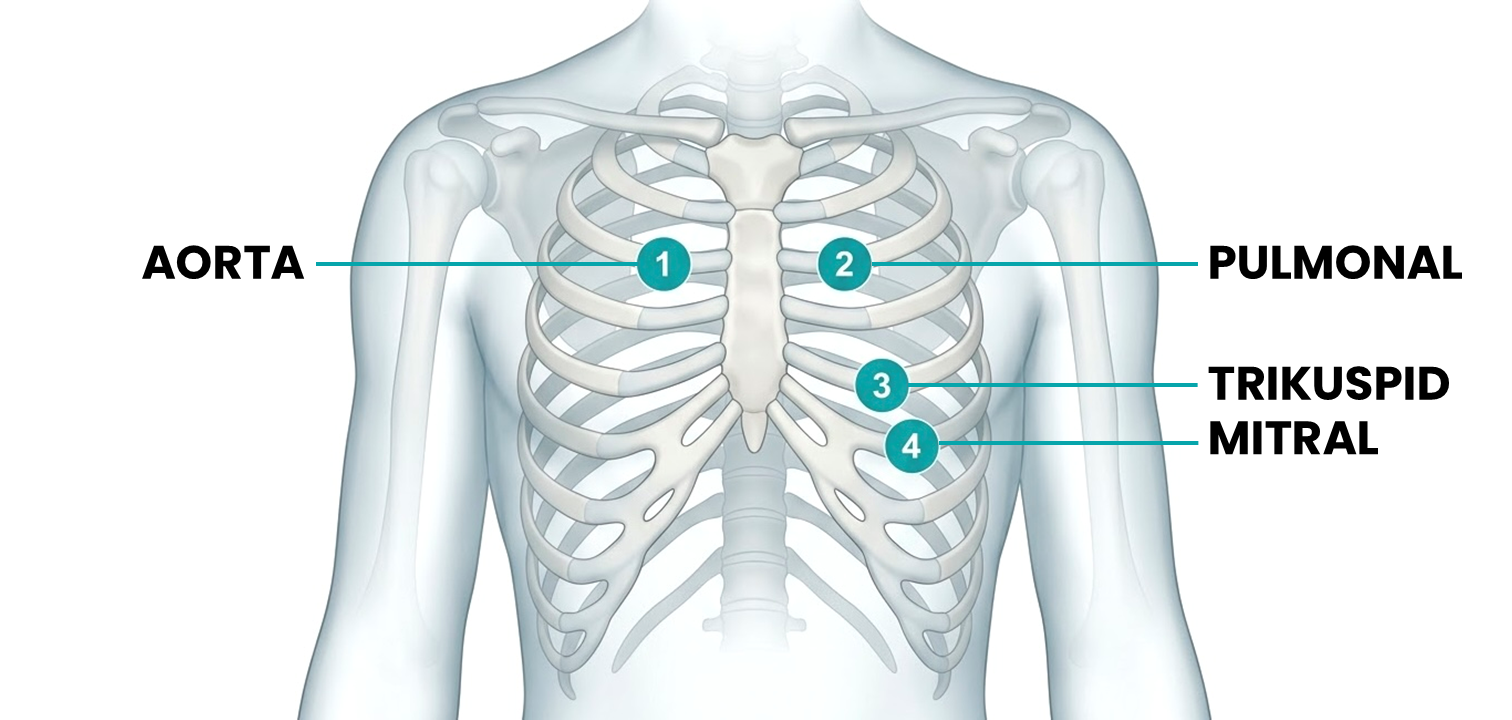
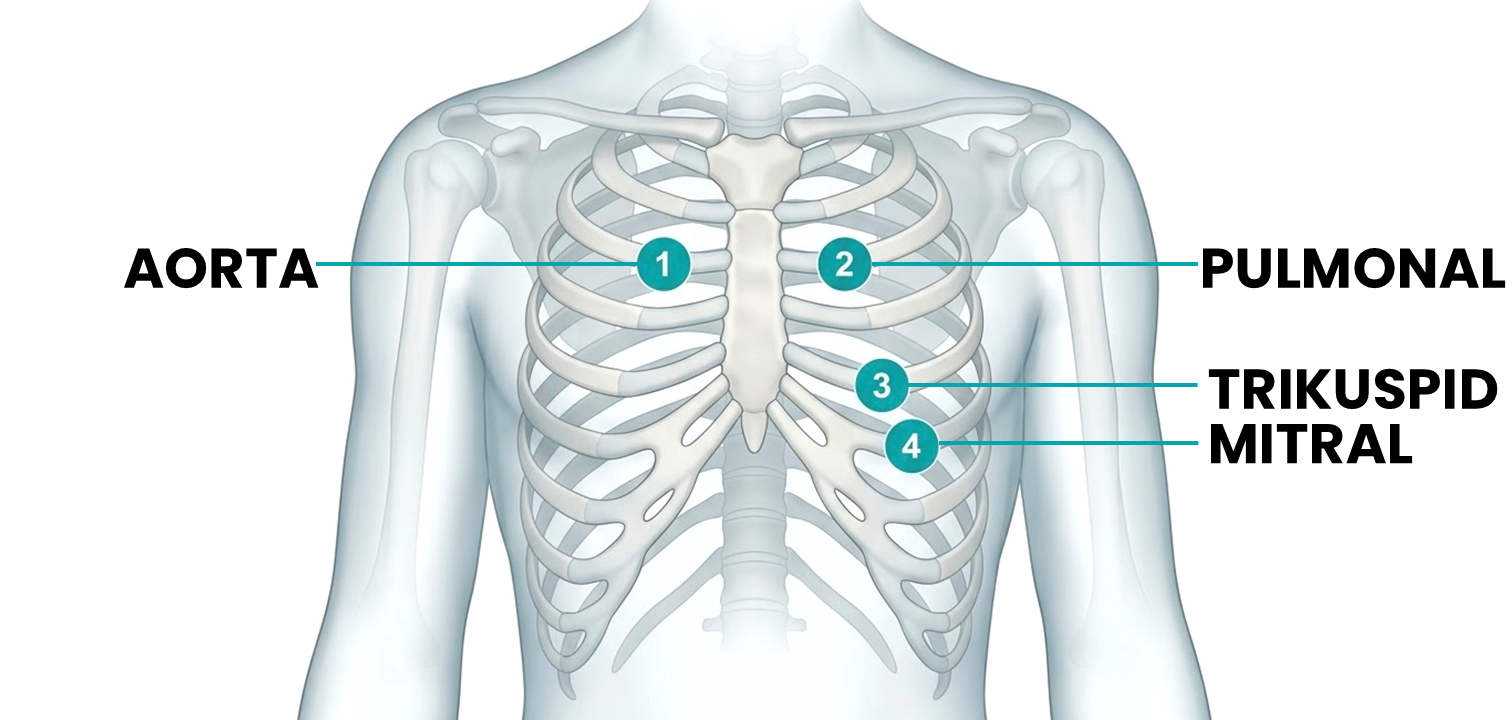
update

Changed region(s): [[0.7771, 0.4889, 0.9947, 0.6417], [0.7771, 0.3361, 0.9947, 0.3972], [0.0622, 0.3361, 0.2176, 0.3972]]

diff --git a/index.html b/index.html
@@ -35,7 +35,7 @@
             <section class="screen visible" data-screen="beranda">
               <header class="app-header">
                 <div class="brand-mark">
-                  <img src="assets/logo-icon.svg" alt="TWINKHDS" class="logo-img">
+                  <img src="assets/logo-icon.png" alt="TWINKHDS" class="logo-img">
                 </div>
                 <span class="brand-name">TWINKHDS</span>
                 <div class="header-side">
@@ -48,7 +48,7 @@
               <div class="screen-body">
                 <div class="hero-card">
                   <div class="hero-icon">
-                    <img src="assets/logo-icon.svg" alt="TWINKHDS" class="logo-img">
+                    <img src="assets/logo-hero-kotak-putih.png" alt="TWINKHDS" class="logo-img">
                   </div>
                   <h2>Mulai Pemeriksaan Baru</h2>
                   <p>Sambungkan dengan perangkat fisik TWINKHDS untuk memulai deteksi dini kelainan jantung anak secara real-time.</p>
@@ -81,7 +81,7 @@
                 <button class="icon-btn" data-nav="beranda" aria-label="Kembali">
                   <svg viewBox="0 0 24 24" fill="none" stroke="currentColor" stroke-width="2" stroke-linecap="round"><path d="M15 18l-6-6 6-6"/></svg>
                 </button>
-                <div class="brand-mark"><img src="assets/logo-icon.svg" alt="TWINKHDS" class="logo-img"></div>
+                <div class="brand-mark"><img src="assets/logo-icon.png" alt="TWINKHDS" class="logo-img"></div>
                 <span class="brand-name">TWINKHDS</span>
                 <div class="header-side">
                   
@@ -106,7 +106,7 @@
                       <button data-val="tahun" class="selected">Tahun</button>
                     </div>
                     <div class="unit-input no-spin">
-                      <input type="number" id="pAge" placeholder="Contoh: 5" min="0">
+                      <input type="number" id="pAge" placeholder="Contoh: 29" min="0">
                       <span id="pAgeUnitLabel">Tahun</span>
                     </div>
                     <p id="pAgeError" style="display:none; color:var(--red-600); font-size:12.5px; margin-top:6px; line-height:1.4;"></p>
@@ -151,7 +151,7 @@
                 <button class="icon-btn" data-nav="input-pasien" aria-label="Kembali">
                   <svg viewBox="0 0 24 24" fill="none" stroke="currentColor" stroke-width="2" stroke-linecap="round"><path d="M15 18l-6-6 6-6"/></svg>
                 </button>
-                <div class="brand-mark"><img src="assets/logo-icon.svg" alt="TWINKHDS" class="logo-img"></div>
+                <div class="brand-mark"><img src="assets/logo-icon.png" alt="TWINKHDS" class="logo-img"></div>
                 <span class="brand-name">TWINKHDS</span>
                 <div class="header-side"></div>
                 <!-- <div class="header-side"><div class="avatar-circle">CP</div></div> -->
@@ -198,7 +198,7 @@
                 <button class="icon-btn" data-nav="panduan-auskultasi" aria-label="Kembali">
                   <svg viewBox="0 0 24 24" fill="none" stroke="currentColor" stroke-width="2" stroke-linecap="round"><path d="M15 18l-6-6 6-6"/></svg>
                 </button>
-                <div class="brand-mark"><img src="assets/logo-icon.svg" alt="TWINKHDS" class="logo-img"></div>
+                <div class="brand-mark"><img src="assets/logo-icon.png" alt="TWINKHDS" class="logo-img"></div>
                 <span class="brand-name">TWINKHDS</span>
                 <div class="header-side"></div>
               </header>
@@ -230,7 +230,7 @@
             <!-- ============================================================ -->
             <section class="screen" data-screen="proses-ai">
               <header class="app-header">
-                <div class="brand-mark"><img src="assets/logo-icon.svg" alt="TWINKHDS" class="logo-img"></div>
+                <div class="brand-mark"><img src="assets/logo-icon.png" alt="TWINKHDS" class="logo-img"></div>
                 <span class="brand-name">TWINKHDS</span>
               </header>
               <div class="screen-body">
@@ -266,7 +266,7 @@
                 <button class="icon-btn" data-nav="proses-auskultasi" aria-label="Kembali">
                   <svg viewBox="0 0 24 24" fill="none" stroke="currentColor" stroke-width="2" stroke-linecap="round"><path d="M15 18l-6-6 6-6"/></svg>
                 </button>
-                <div class="brand-mark"><img src="assets/logo-icon.svg" alt="TWINKHDS" class="logo-img"></div>
+                <div class="brand-mark"><img src="assets/logo-icon.png" alt="TWINKHDS" class="logo-img"></div>
                 <span class="brand-name">TWINKHDS</span>
                 <div class="header-side"></div>
               </header>
@@ -311,13 +311,12 @@
                 <button class="icon-btn" data-nav="hasil-skrining" aria-label="Kembali">
                   <svg viewBox="0 0 24 24" fill="none" stroke="currentColor" stroke-width="2" stroke-linecap="round"><path d="M15 18l-6-6 6-6"/></svg>
                 </button>
-                <div class="brand-mark"><img src="assets/logo-icon.svg" alt="TWINKHDS" class="logo-img"></div>
+                <div class="brand-mark"><img src="assets/logo-icon.png" alt="TWINKHDS" class="logo-img"></div>
                 <span class="brand-name">TWINKHDS</span>
                 <div class="header-side"></div>
               </header>
               <div class="screen-body">
-                <div class="h1" style="font-size:24px;">Penjelasan</div>
-                <p class="subtext">Tinjauan faktor klinis yang mendasari hasil deteksi dini.</p>
+                <p class="subtext" style="margin-top:2px;">Tinjauan faktor klinis yang mendasari hasil deteksi dini.</p>
 
                 <div class="card" style="background:transparent; border:none; box-shadow:none; padding:0;">
                   <div class="card-title" style="padding:0 2px;">
@@ -350,15 +349,14 @@
                 <button class="icon-btn" data-nav="penjelasan-ai" aria-label="Kembali">
                   <svg viewBox="0 0 24 24" fill="none" stroke="currentColor" stroke-width="2" stroke-linecap="round"><path d="M15 18l-6-6 6-6"/></svg>
                 </button>
-                <div class="brand-mark"><img src="assets/logo-icon.svg" alt="TWINKHDS" class="logo-img"></div>
+                <div class="brand-mark"><img src="assets/logo-icon.png" alt="TWINKHDS" class="logo-img"></div>
                 <span class="brand-name">TWINKHDS</span>
                 <div class="header-side"></div>
               </header>
               <div class="screen-body">
-                <div class="h1" id="whyTitle" style="font-size:18px;">Mengapa Terdeteksi Abnormal?</div>
-                <p class="subtext">Faktor-faktor di bawah ini paling berkontribusi terhadap klasifikasi Model 2 (Logistic Regression).</p>
+                <div class="h1" id="whyTitle" style="font-size:24px;">Mengapa Terdeteksi Abnormal?</div>
 
-                <div class="legend-row" style="padding:0 2px; margin-bottom:8px;">
+                <div class="legend-row" style="padding:0 2px; margin-bottom:8px; margin-top:10px;">
                   <div class="legend-dot"><i style="background:var(--red-600)"></i>Mendorong ke Abnormal</div>
                   <div class="legend-dot"><i style="background:var(--green-600)"></i>Mendorong ke Normal</div>
                 </div>
@@ -390,11 +388,10 @@
                   <svg viewBox="0 0 24 24" fill="none" stroke="currentColor" stroke-width="2.4" stroke-linecap="round"><path d="M20 6L9 17l-5-5"/></svg>
                   Simpan &amp; Selesai
                 </button>
-                <button class="btn btn-outline" data-action="download-report">
+                <button class="btn btn-primary" data-action="download-report">
                   <svg viewBox="0 0 24 24" fill="none" stroke="currentColor" stroke-width="2.2" stroke-linecap="round"><path d="M21 15v4a2 2 0 01-2 2H5a2 2 0 01-2-2v-4"/><path d="M7 10l5 5 5-5M12 15V3"/></svg>
                   Unduh Laporan
                 </button>
-                <button class="btn btn-ghost" data-nav="penjelasan-ai">Kembali ke Grafik Spektrogram</button>
               </div>
               <nav class="bottom-nav" data-navbar></nav>
             </section>
@@ -404,7 +401,7 @@
             <!-- ============================================================ -->
             <section class="screen" data-screen="riwayat">
               <header class="app-header">
-                <div class="brand-mark"><img src="assets/logo-icon.svg" alt="TWINKHDS" class="logo-img"></div>
+                <div class="brand-mark"><img src="assets/logo-icon.png" alt="TWINKHDS" class="logo-img"></div>
                 <span class="brand-name">TWINKHDS</span>
                 <!-- <div class="header-side"><div class="avatar-circle">CP</div></div> -->
               </header>
@@ -415,7 +412,7 @@
                 <div class="searchbar-row">
                   <div class="searchbar" style="flex:1; margin-bottom:0;">
                     <svg viewBox="0 0 24 24" fill="none" stroke="currentColor" stroke-width="2" stroke-linecap="round"><circle cx="11" cy="11" r="8"/><path d="M21 21l-4.35-4.35"/></svg>
-                    <input type="text" id="searchRiwayat" placeholder="Cari nama pasien, NIK, atau ID...">
+                    <input type="text" id="searchRiwayat" placeholder="Cari nama pasien atau ID...">
                   </div>
                   <div class="chip" style="margin:0;">Filter
                     <svg viewBox="0 0 24 24" fill="none" stroke="currentColor" stroke-width="2" stroke-linecap="round"><path d="M4 6h16M7 12h10M10 18h4"/></svg>

diff --git a/app.js b/app.js
@@ -65,9 +65,9 @@
       if(raw) return JSON.parse(raw);
     }catch(e){}
     return [
-      { name:"Nayla Putri", id:"P-2026-8942", ageDisplay:"3 Tahun", gender:"P", weight:12.5, height:88,  tier:"abnormal", probMurmur:0.81, when:"12 Okt 2026, 09:14" },
-      { name:"Raka Aditya", id:"P-2026-8941", ageDisplay:"8 Tahun", gender:"L", weight:26,   height:126, tier:"normal",   probMurmur:0.14, when:"12 Okt 2026, 08:47" },
-      { name:"Zahra Amelia", id:"P-2026-8938", ageDisplay:"45 Hari", gender:"P", weight:4.2,  height:54,  tier:"normal",   probMurmur:0.22, when:"11 Okt 2026, 10:02" },
+      { name:"Nayla Putri", id:"P-2026-8942", ageDisplay:"3 Tahun", gender:"P", weight:12.5, height:88,  tier:"abnormal", probMurmur:0.81, when:"29 Agu 2026, 09:14" },
+      { name:"Raka Aditya", id:"P-2026-8941", ageDisplay:"8 Tahun", gender:"L", weight:26,   height:126, tier:"normal",   probMurmur:0.14, when:"28 Agu 2026, 08:47" },
+      { name:"Zahra Amelia", id:"P-2026-8938", ageDisplay:"45 Hari", gender:"P", weight:4.2,  height:54,  tier:"normal",   probMurmur:0.22, when:"27 Agu 2026, 10:02" },
     ];
   }
   function saveHistory(list){ try{ localStorage.setItem(HKEY, JSON.stringify(list)); }catch(e){} }
@@ -259,7 +259,7 @@
       } else if(i===activeIdx && mode==="recording"){
         statusHtml = `<span class="point-status" style="color:var(--green-700)">Merekam…</span>`;
       } else if(i===activeIdx && mode==="badsignal"){
-        statusHtml = `<span class="point-status pill-tag tag-wheeze">SQI Gagal, Mengulang</span>`;
+        statusHtml = `<span class="point-status pill-tag tag-wheeze">Sinyal Lemah, Mengulang</span>`;
       }
       return `<div class="${cls}"><div class="point-num">${p.code}</div><div class="point-name"><b style="text-transform:uppercase;">${p.name}</b><span class="point-desc">${p.desc}</span></div>${statusHtml}</div>`;
     }).join("");
@@ -287,7 +287,7 @@
         $("#activePointLabel").textContent = `Titik Aktif: ${snap.pointNames[snap.cursor]} (${snap.pointDescs[snap.cursor].toLowerCase()})`;
         renderPointList(snap.cursor, "recording");
       } else if(snap.state === "badsignal"){
-        $("#activePointLabel").textContent = `⚠ SQI Gagal, Mengulang Titik ${snap.pointNames[snap.cursor]}`;
+        $("#activePointLabel").textContent = `⚠ Sinyal Lemah, Mengulang Titik ${snap.pointNames[snap.cursor]}`;
         renderPointList(snap.cursor, "badsignal");
       } else if(snap.state === "allDone"){
         $("#activePointLabel").textContent = "✓ 4 Titik Selesai Direkam";
@@ -325,7 +325,7 @@
     if(!isScreenVisible("proses-auskultasi")) return;
     clearInterval(phoneAusTimer);
     const snap = window.TwinkhdsDevice.getSnapshot();
-    $("#activePointLabel").textContent = `⚠ SQI Gagal, Mengulang Titik ${snap.pointNames[e.detail.index]}`;
+    $("#activePointLabel").textContent = `⚠ Sinyal Lemah, Mengulang Titik ${snap.pointNames[e.detail.index]}`;
     setTimerDisplay(1, "Mengulang…");
     renderPointList(e.detail.index, "badsignal");
   });

diff --git a/device.js b/device.js
@@ -68,7 +68,7 @@
       return `<div class="${ringClass}" style="left:${pt.x}%; top:${pt.y}%;"><span>${POINT_CODES[i]}</span></div>`;
     }).join("");
     return `<div class="dlcd-diagram-wrap">
-      <img src="assets/GAMBAR TULANG RUSUK Vbesar.png" class="dlcd-diagram-img" alt="4 titik auskultasi jantung">
+      <img src="assets/auskultasi-4titik.png" class="dlcd-diagram-img" alt="4 titik auskultasi jantung">
       ${markers}
     </div>`;
   }
@@ -126,7 +126,7 @@
     } else if(D.state === "recording"){
       resultHTML = `<b style="color:#3A423F;">MEREKAM…</b><span>Jangan gerakkan stetoskop</span>`;
     } else if(D.state === "badsignal"){
-      resultHTML = `<b style="color:#C98A00;">SQI GAGAL</b><span>Sinyal kurang jelas, mengulang…</span>`;
+      resultHTML = `<b style="color:#C98A00;">SINYAL LEMAH</b><span>Sinyal lemah, mengulang…</span>`;
     } else if(res){
       resultHTML = `<b style="color:#007A7A;">✓ TEREKAM</b><span>Lanjut ke titik berikutnya</span>`;
     } else {
@@ -179,16 +179,8 @@
       startRecording();
       return;
     }
-    if(D.state === "allDone"){
-      D.done = [false,false,false,false];
-      D.results = [null,null,null,null];
-      D.cursor = 0;
-      D.state = "idle";
-      render();
-      emit("twinkhds:reset", {});
-      return;
-    }
-    // recording / badsignal: tombol tidak berfungsi, otomatis berjalan
+    // allDone / recording / badsignal: tombol tidak berfungsi di state ini.
+    // Lanjut ke analisis dilakukan lewat tombol di layar HP, bukan lewat alat.
   }
 
   function startRecording(){

diff --git a/style.css b/style.css
@@ -530,7 +530,7 @@ a{color:inherit;}
 /* Toggle satuan usia: Hari / Bulan / Tahun */
 .seg-unit{display:flex; gap:6px;}
 .seg-unit button{flex:1; border:1.5px solid var(--border); background:#fff; border-radius:var(--radius-sm); padding:8px 6px; font-size:14.5px; font-weight:600; color:var(--ink-700); text-align:center; transition:border-color .15s ease, background .15s ease, color .15s ease;}
-.seg-unit button.selected{background:var(--green-700); border-color:var(--green-700); color:#fff;}
+.seg-unit button.selected{border-color:var(--green-700); background:var(--green-050); color:var(--green-800);}
 .seg-gender{display:flex; flex-direction:row; gap:9px;}
 .seg-gender button{
   flex:1; display:flex; flex-direction:row; align-items:center; justify-content:center; gap:7px;
@@ -539,8 +539,8 @@ a{color:inherit;}
   transition:border-color .15s ease, background .15s ease, color .15s ease;
 }
 .seg-gender button .gender-icon{width:18px; height:18px; flex:0 0 auto; color:var(--ink-500);}
-.seg-gender button.selected{border-color:var(--green-700); background:var(--green-050); color:var(--green-800);}
-.seg-gender button.selected .gender-icon{color:var(--green-700);}
+.seg-gender button.selected{background:var(--green-700); border-color:var(--green-700); color:#fff;}
+.seg-gender button.selected .gender-icon{color:#fff;}
 /* Sembunyikan tombol naik/turun pada input angka */
 .no-spin input[type=number]::-webkit-outer-spin-button,
 .no-spin input[type=number]::-webkit-inner-spin-button{-webkit-appearance:none; margin:0;}
